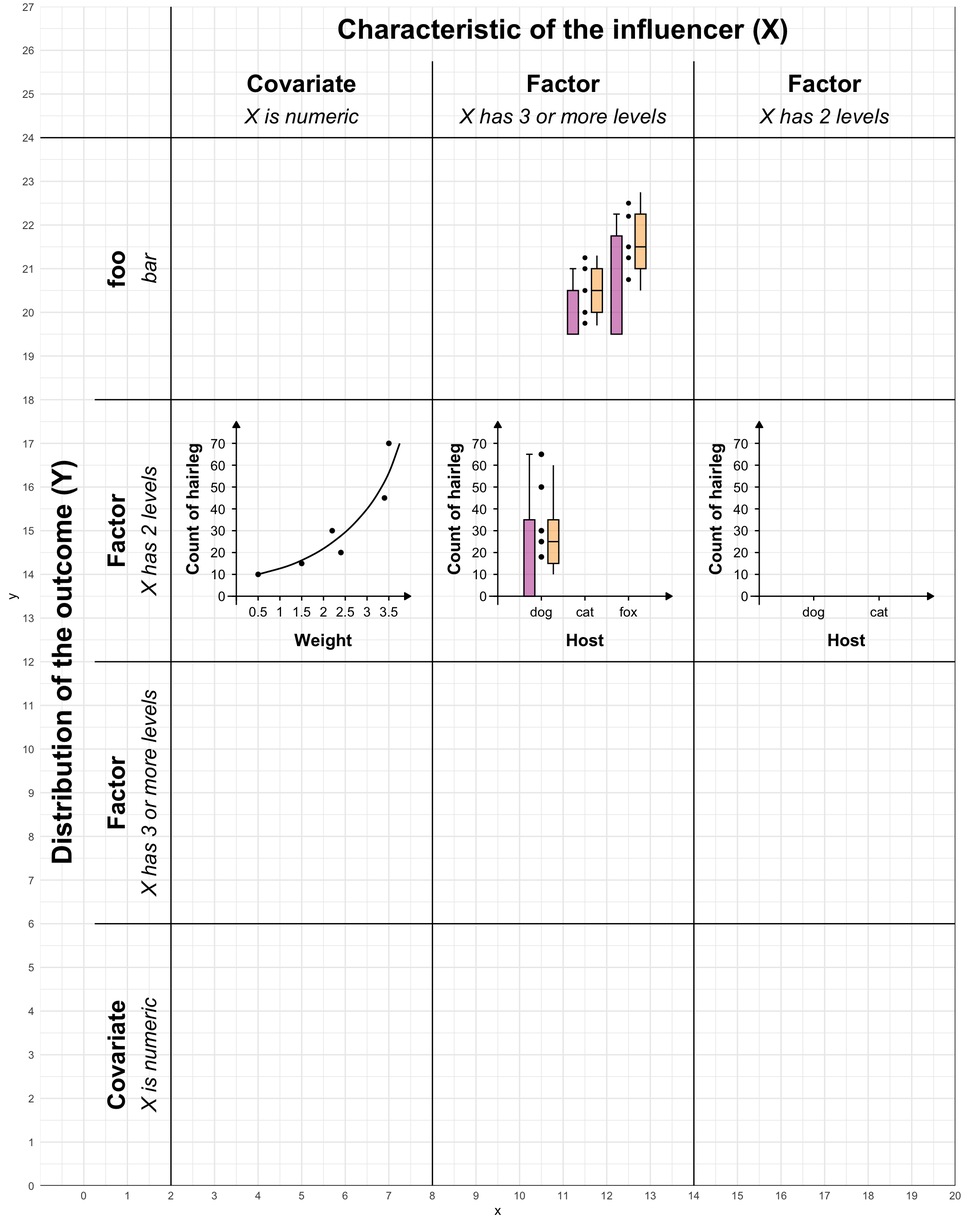
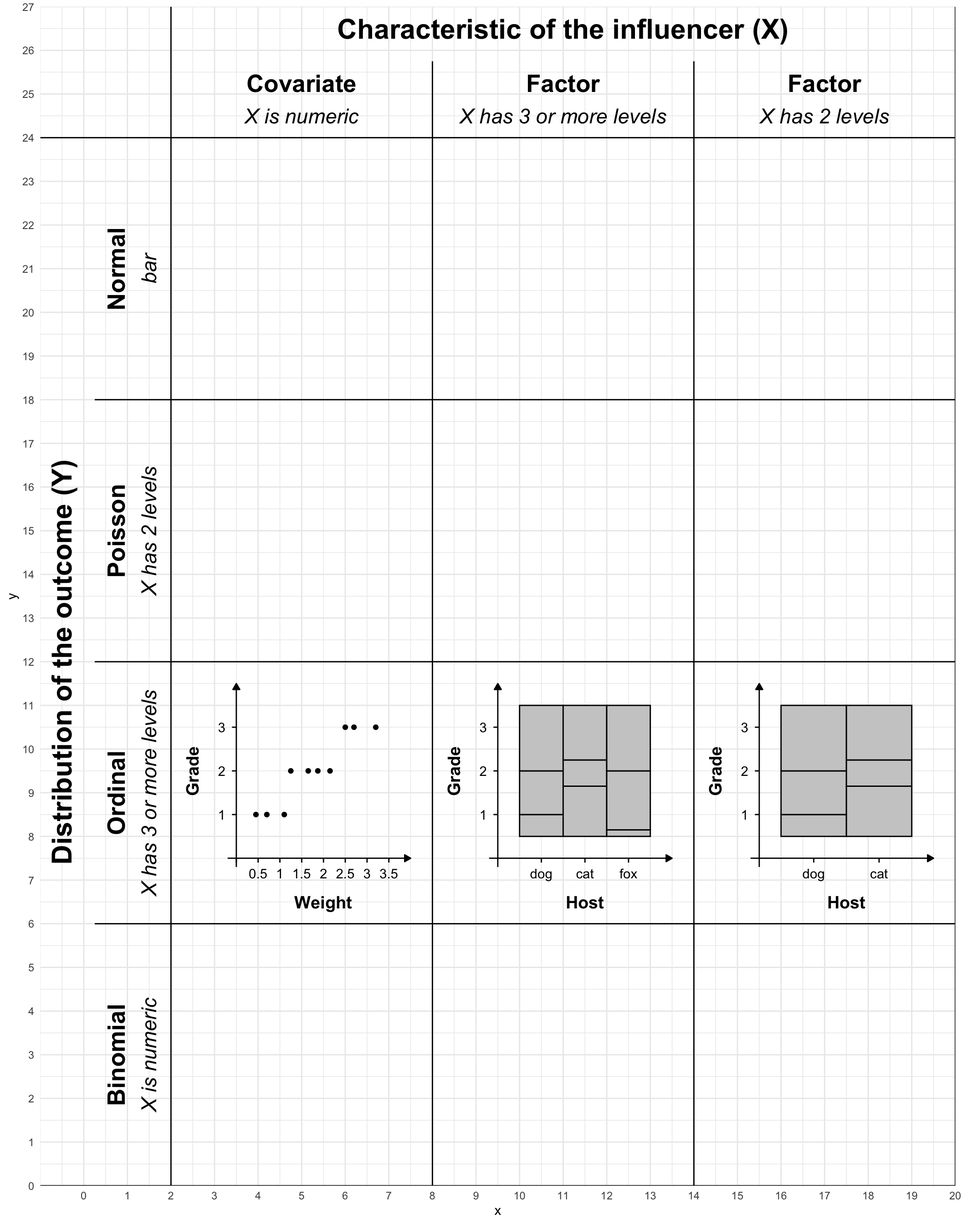
added

diff --git a/docs/chapter-40-preface.html b/docs/chapter-40-preface.html
@@ -361,7 +361,7 @@ pre > code.sourceCode > span > a:first-child::before { text-decoration: underlin
 </header>
 
 
-<p><em>Last modified on 16. December 2025 at 16:24:38</em></p>
+<p><em>Last modified on 16. December 2025 at 19:12:45</em></p>
 <blockquote class="blockquote">
 <p><em>“What problem have you solved, ever, that was worth solving where you knew all the given information in advance? No problem worth solving is like that. In the real world, you have a surplus of information and you have to filter it, or you don’t have sufficient information and you have to go find some.” — <a href="https://www.ted.com/talks/dan_meyer_math_class_needs_a_makeover?language=en&amp;subtitle=en&amp;trigger=5s">Dan Meyer in Math class needs a makeover</a></em></p>
 </blockquote>
@@ -976,7 +976,7 @@ Figure&nbsp;1: foo
 <span id="cb1-88"><a href="#cb1-88" aria-hidden="true" tabindex="-1"></a>  )</span>
 <span id="cb1-89"><a href="#cb1-89" aria-hidden="true" tabindex="-1"></a>}</span>
 <span id="cb1-90"><a href="#cb1-90" aria-hidden="true" tabindex="-1"></a></span>
-<span id="cb1-91"><a href="#cb1-91" aria-hidden="true" tabindex="-1"></a> <span class="fu">ggplot</span>() <span class="sc">+</span></span>
+<span id="cb1-91"><a href="#cb1-91" aria-hidden="true" tabindex="-1"></a><span class="fu">ggplot</span>() <span class="sc">+</span></span>
 <span id="cb1-92"><a href="#cb1-92" aria-hidden="true" tabindex="-1"></a>  <span class="do">##theme_void() +</span></span>
 <span id="cb1-93"><a href="#cb1-93" aria-hidden="true" tabindex="-1"></a>  <span class="fu">theme_minimal</span>() <span class="sc">+</span></span>
 <span id="cb1-94"><a href="#cb1-94" aria-hidden="true" tabindex="-1"></a>  <span class="fu">coord_cartesian</span>(<span class="at">xlim =</span> <span class="fu">c</span>(<span class="sc">-</span><span class="dv">1</span>, <span class="dv">20</span>), <span class="at">ylim =</span> <span class="fu">c</span>(<span class="dv">0</span>, <span class="dv">27</span>)) <span class="sc">+</span></span>
@@ -1000,53 +1000,37 @@ Figure&nbsp;1: foo
 <span id="cb1-112"><a href="#cb1-112" aria-hidden="true" tabindex="-1"></a>  <span class="fu">annotate</span>(<span class="st">"text"</span>, <span class="at">x =</span> <span class="sc">-</span><span class="fl">0.5</span>, <span class="at">y =</span> <span class="dv">12</span>, <span class="at">label =</span> <span class="st">"Distribution of the outcome (Y)"</span>, <span class="at">size =</span> <span class="dv">8</span>, </span>
 <span id="cb1-113"><a href="#cb1-113" aria-hidden="true" tabindex="-1"></a>           <span class="at">fontface =</span> <span class="dv">2</span>, <span class="at">angle =</span> <span class="dv">90</span>) <span class="sc">+</span></span>
 <span id="cb1-114"><a href="#cb1-114" aria-hidden="true" tabindex="-1"></a>  <span class="fu">annotate</span>(<span class="st">"text"</span>, <span class="at">x =</span> <span class="fl">0.75</span>, <span class="at">y =</span> <span class="fu">c</span>(<span class="dv">3</span>, <span class="dv">9</span>, <span class="dv">15</span>, <span class="dv">21</span>), </span>
-<span id="cb1-115"><a href="#cb1-115" aria-hidden="true" tabindex="-1"></a>           <span class="at">label =</span> <span class="fu">c</span>(<span class="st">"Covariate"</span>, <span class="st">"Factor"</span>, <span class="st">"Factor"</span>, <span class="st">"foo"</span>), <span class="at">size =</span> <span class="dv">7</span>, <span class="at">fontface =</span> <span class="dv">2</span>, <span class="at">angle =</span> <span class="dv">90</span>) <span class="sc">+</span></span>
+<span id="cb1-115"><a href="#cb1-115" aria-hidden="true" tabindex="-1"></a>           <span class="at">label =</span> <span class="fu">c</span>(<span class="st">"Binomial"</span>, <span class="st">"Ordinal"</span>, <span class="st">"Poisson"</span>, <span class="st">"Normal"</span>), <span class="at">size =</span> <span class="dv">7</span>, <span class="at">fontface =</span> <span class="dv">2</span>, <span class="at">angle =</span> <span class="dv">90</span>) <span class="sc">+</span></span>
 <span id="cb1-116"><a href="#cb1-116" aria-hidden="true" tabindex="-1"></a>  <span class="fu">annotate</span>(<span class="st">"text"</span>, <span class="at">x =</span> <span class="fl">1.5</span>, <span class="at">y =</span> <span class="fu">c</span>(<span class="dv">3</span>, <span class="dv">9</span>, <span class="dv">15</span>, <span class="dv">21</span>), </span>
 <span id="cb1-117"><a href="#cb1-117" aria-hidden="true" tabindex="-1"></a>           <span class="at">label =</span> <span class="fu">c</span>(<span class="st">"X is numeric"</span>, <span class="st">"X has 3 or more levels"</span>, <span class="st">"X has 2 levels"</span>, <span class="st">"bar"</span>), </span>
 <span id="cb1-118"><a href="#cb1-118" aria-hidden="true" tabindex="-1"></a>           <span class="at">size =</span> <span class="dv">6</span>, <span class="at">fontface =</span> <span class="dv">3</span>, <span class="at">angle =</span> <span class="dv">90</span>) <span class="sc">+</span></span>
 <span id="cb1-119"><a href="#cb1-119" aria-hidden="true" tabindex="-1"></a>  <span class="do">## coords</span></span>
-<span id="cb1-120"><a href="#cb1-120" aria-hidden="true" tabindex="-1"></a>  <span class="fu">geom_coord_cross</span>(<span class="at">x =</span> <span class="fl">3.5</span>, <span class="at">y =</span> <span class="fl">13.5</span>, <span class="at">yticks =</span> <span class="st">"numeric"</span>, <span class="at">xticks =</span> <span class="st">"numeric"</span>, <span class="at">zero =</span> <span class="cn">TRUE</span>) <span class="sc">+</span></span>
-<span id="cb1-121"><a href="#cb1-121" aria-hidden="true" tabindex="-1"></a>  <span class="fu">geom_coord_cross</span>(<span class="at">x =</span> <span class="fl">9.5</span>, <span class="at">y =</span> <span class="fl">13.5</span>, <span class="at">yticks =</span> <span class="st">"numeric"</span>, <span class="at">xticks =</span> <span class="st">"3lvl"</span>, <span class="at">zero =</span> <span class="cn">TRUE</span>) <span class="sc">+</span></span>
-<span id="cb1-122"><a href="#cb1-122" aria-hidden="true" tabindex="-1"></a>  <span class="fu">geom_coord_cross</span>(<span class="at">x =</span> <span class="fl">15.5</span>, <span class="at">y =</span> <span class="fl">13.5</span>, <span class="at">yticks =</span> <span class="st">"numeric"</span>, <span class="at">xticks =</span> <span class="st">"2lvl"</span>, <span class="at">zero =</span> <span class="cn">TRUE</span>) <span class="sc">+</span>   </span>
-<span id="cb1-123"><a href="#cb1-123" aria-hidden="true" tabindex="-1"></a>  <span class="do">## normal</span></span>
-<span id="cb1-124"><a href="#cb1-124" aria-hidden="true" tabindex="-1"></a>  <span class="do">## pois</span></span>
-<span id="cb1-125"><a href="#cb1-125" aria-hidden="true" tabindex="-1"></a>  <span class="do">### covariate</span></span>
-<span id="cb1-126"><a href="#cb1-126" aria-hidden="true" tabindex="-1"></a>  <span class="fu">annotate</span>(<span class="st">"point"</span>, <span class="at">x =</span> <span class="fu">c</span>(<span class="fl">0.5</span>, <span class="fl">1.5</span>, <span class="fl">2.4</span>, <span class="fl">2.2</span>, <span class="fl">3.4</span>, <span class="fl">3.5</span>) <span class="sc">+</span> <span class="fl">3.5</span>, </span>
-<span id="cb1-127"><a href="#cb1-127" aria-hidden="true" tabindex="-1"></a>           <span class="at">y =</span> <span class="fu">c</span>(<span class="dv">14</span>, <span class="fl">14.25</span>, <span class="fl">14.5</span>, <span class="dv">15</span>, <span class="fl">15.75</span>, <span class="dv">17</span>), <span class="at">size =</span> <span class="fl">1.5</span>) <span class="sc">+</span></span>
-<span id="cb1-128"><a href="#cb1-128" aria-hidden="true" tabindex="-1"></a>  <span class="fu">geom_curve</span>(<span class="fu">aes</span>(<span class="at">x =</span> <span class="dv">4</span>, <span class="at">y =</span> <span class="dv">14</span>, <span class="at">xend =</span> <span class="fl">7.25</span>, <span class="at">yend =</span> <span class="dv">17</span>),</span>
-<span id="cb1-129"><a href="#cb1-129" aria-hidden="true" tabindex="-1"></a>             <span class="at">curvature =</span> <span class="fl">0.3</span>, <span class="at">color =</span> <span class="st">"black"</span>, <span class="at">linewidth =</span> <span class="fl">0.65</span>) <span class="sc">+</span></span>
-<span id="cb1-130"><a href="#cb1-130" aria-hidden="true" tabindex="-1"></a>    <span class="do">### 3lvl</span></span>
-<span id="cb1-131"><a href="#cb1-131" aria-hidden="true" tabindex="-1"></a>  <span class="fu">geom_rect</span>(<span class="fu">aes</span>(<span class="at">xmin =</span> <span class="fl">10.1</span>, <span class="at">xmax =</span> <span class="fl">10.35</span>, <span class="at">ymin =</span> <span class="fl">13.5</span>, <span class="at">ymax =</span> <span class="fl">15.25</span>), <span class="at">fill =</span> <span class="st">"#B12A9080"</span>,</span>
-<span id="cb1-132"><a href="#cb1-132" aria-hidden="true" tabindex="-1"></a>            <span class="at">color =</span> <span class="st">"black"</span>) <span class="sc">+</span></span>
-<span id="cb1-133"><a href="#cb1-133" aria-hidden="true" tabindex="-1"></a>  <span class="fu">geom_segment</span>(<span class="fu">aes</span>(<span class="at">x =</span> <span class="fl">10.225</span>, <span class="at">xend =</span> <span class="fl">10.225</span>, <span class="at">y =</span> <span class="fl">15.25</span>, <span class="at">yend =</span> <span class="fl">16.75</span>)) <span class="sc">+</span></span>
-<span id="cb1-134"><a href="#cb1-134" aria-hidden="true" tabindex="-1"></a>  <span class="fu">geom_segment</span>(<span class="fu">aes</span>(<span class="at">x =</span> <span class="fl">10.15</span>, <span class="at">xend =</span> <span class="fl">10.3</span>, <span class="at">y =</span> <span class="fl">16.75</span>, <span class="at">yend =</span> <span class="fl">16.75</span>)) <span class="sc">+</span>  </span>
-<span id="cb1-135"><a href="#cb1-135" aria-hidden="true" tabindex="-1"></a>  <span class="fu">annotate</span>(<span class="st">"point"</span>, <span class="at">x =</span> <span class="fu">c</span>(<span class="fl">10.5</span>), </span>
-<span id="cb1-136"><a href="#cb1-136" aria-hidden="true" tabindex="-1"></a>           <span class="at">y =</span> <span class="fu">c</span>(<span class="fl">14.75</span>, <span class="dv">15</span>, <span class="fl">14.4</span>, <span class="dv">16</span>, <span class="fl">16.75</span>), <span class="at">size =</span> <span class="fl">1.5</span>) <span class="sc">+</span>  </span>
-<span id="cb1-137"><a href="#cb1-137" aria-hidden="true" tabindex="-1"></a>  <span class="fu">geom_rect</span>(<span class="fu">aes</span>(<span class="at">xmin =</span> <span class="fl">10.65</span>, <span class="at">xmax =</span> <span class="fl">10.9</span>, <span class="at">ymin =</span> <span class="fl">14.25</span>, <span class="at">ymax =</span> <span class="fl">15.25</span>), <span class="at">fill =</span> <span class="st">"#FCA63680"</span>,</span>
-<span id="cb1-138"><a href="#cb1-138" aria-hidden="true" tabindex="-1"></a>            <span class="at">color =</span> <span class="st">"black"</span>) <span class="sc">+</span></span>
-<span id="cb1-139"><a href="#cb1-139" aria-hidden="true" tabindex="-1"></a>  <span class="fu">geom_segment</span>(<span class="fu">aes</span>(<span class="at">x =</span> <span class="fl">10.65</span>, <span class="at">xend =</span> <span class="fl">10.9</span>, <span class="at">y =</span> <span class="fl">14.75</span>, <span class="at">yend =</span> <span class="fl">14.75</span>)) <span class="sc">+</span></span>
-<span id="cb1-140"><a href="#cb1-140" aria-hidden="true" tabindex="-1"></a>  <span class="fu">geom_segment</span>(<span class="fu">aes</span>(<span class="at">x =</span> <span class="fl">10.775</span>, <span class="at">xend =</span> <span class="fl">10.775</span>, <span class="at">y =</span> <span class="fu">c</span>(<span class="dv">14</span>, <span class="fl">15.25</span>), <span class="at">yend =</span> <span class="fu">c</span>(<span class="fl">14.25</span>, <span class="fl">16.5</span>))) <span class="sc">+</span></span>
-<span id="cb1-141"><a href="#cb1-141" aria-hidden="true" tabindex="-1"></a>  <span class="fu">geom_rect</span>(<span class="fu">aes</span>(<span class="at">xmin =</span> <span class="fl">11.1</span>, <span class="at">xmax =</span> <span class="fl">11.35</span>, <span class="at">ymin =</span> <span class="fl">19.5</span>, <span class="at">ymax =</span> <span class="fl">20.5</span>), <span class="at">fill =</span> <span class="st">"#B12A9080"</span>,</span>
-<span id="cb1-142"><a href="#cb1-142" aria-hidden="true" tabindex="-1"></a>            <span class="at">color =</span> <span class="st">"black"</span>) <span class="sc">+</span></span>
-<span id="cb1-143"><a href="#cb1-143" aria-hidden="true" tabindex="-1"></a>  <span class="fu">geom_segment</span>(<span class="fu">aes</span>(<span class="at">x =</span> <span class="fl">11.225</span>, <span class="at">xend =</span> <span class="fl">11.225</span>, <span class="at">y =</span> <span class="fl">20.5</span>, <span class="at">yend =</span> <span class="dv">21</span>)) <span class="sc">+</span></span>
-<span id="cb1-144"><a href="#cb1-144" aria-hidden="true" tabindex="-1"></a>  <span class="fu">geom_segment</span>(<span class="fu">aes</span>(<span class="at">x =</span> <span class="fl">11.15</span>, <span class="at">xend =</span> <span class="fl">11.3</span>, <span class="at">y =</span> <span class="dv">21</span>, <span class="at">yend =</span> <span class="dv">21</span>)) <span class="sc">+</span>  </span>
-<span id="cb1-145"><a href="#cb1-145" aria-hidden="true" tabindex="-1"></a>  <span class="fu">annotate</span>(<span class="st">"point"</span>, <span class="at">x =</span> <span class="fu">c</span>(<span class="fl">11.5</span>), </span>
-<span id="cb1-146"><a href="#cb1-146" aria-hidden="true" tabindex="-1"></a>           <span class="at">y =</span> <span class="fu">c</span>(<span class="fl">19.75</span>, <span class="dv">20</span>, <span class="fl">20.5</span>, <span class="dv">21</span>, <span class="fl">21.25</span>), <span class="at">size =</span> <span class="fl">1.25</span>) <span class="sc">+</span>  </span>
-<span id="cb1-147"><a href="#cb1-147" aria-hidden="true" tabindex="-1"></a>  <span class="fu">geom_rect</span>(<span class="fu">aes</span>(<span class="at">xmin =</span> <span class="fl">11.65</span>, <span class="at">xmax =</span> <span class="fl">11.9</span>, <span class="at">ymin =</span> <span class="dv">20</span>, <span class="at">ymax =</span> <span class="dv">21</span>), <span class="at">fill =</span> <span class="st">"#FCA63680"</span>,</span>
-<span id="cb1-148"><a href="#cb1-148" aria-hidden="true" tabindex="-1"></a>            <span class="at">color =</span> <span class="st">"black"</span>) <span class="sc">+</span></span>
-<span id="cb1-149"><a href="#cb1-149" aria-hidden="true" tabindex="-1"></a>  <span class="fu">geom_segment</span>(<span class="fu">aes</span>(<span class="at">x =</span> <span class="fl">11.65</span>, <span class="at">xend =</span> <span class="fl">11.9</span>, <span class="at">y =</span> <span class="fl">20.5</span>, <span class="at">yend =</span> <span class="fl">20.5</span>)) <span class="sc">+</span></span>
-<span id="cb1-150"><a href="#cb1-150" aria-hidden="true" tabindex="-1"></a>  <span class="fu">geom_segment</span>(<span class="fu">aes</span>(<span class="at">x =</span> <span class="fl">11.775</span>, <span class="at">xend =</span> <span class="fl">11.775</span>, <span class="at">y =</span> <span class="fu">c</span>(<span class="fl">19.7</span>, <span class="dv">21</span>), <span class="at">yend =</span> <span class="fu">c</span>(<span class="dv">20</span>, <span class="fl">21.3</span>))) <span class="sc">+</span></span>
-<span id="cb1-151"><a href="#cb1-151" aria-hidden="true" tabindex="-1"></a>  <span class="fu">geom_rect</span>(<span class="fu">aes</span>(<span class="at">xmin =</span> <span class="fl">12.1</span>, <span class="at">xmax =</span> <span class="fl">12.35</span>, <span class="at">ymin =</span> <span class="fl">19.5</span>, <span class="at">ymax =</span> <span class="fl">21.75</span>), <span class="at">fill =</span> <span class="st">"#B12A9080"</span>,</span>
-<span id="cb1-152"><a href="#cb1-152" aria-hidden="true" tabindex="-1"></a>            <span class="at">color =</span> <span class="st">"black"</span>) <span class="sc">+</span></span>
-<span id="cb1-153"><a href="#cb1-153" aria-hidden="true" tabindex="-1"></a>  <span class="fu">geom_segment</span>(<span class="fu">aes</span>(<span class="at">x =</span> <span class="fl">12.225</span>, <span class="at">xend =</span> <span class="fl">12.225</span>, <span class="at">y =</span> <span class="fl">21.75</span>, <span class="at">yend =</span> <span class="fl">22.25</span>)) <span class="sc">+</span></span>
-<span id="cb1-154"><a href="#cb1-154" aria-hidden="true" tabindex="-1"></a>  <span class="fu">geom_segment</span>(<span class="fu">aes</span>(<span class="at">x =</span> <span class="fl">12.15</span>, <span class="at">xend =</span> <span class="fl">12.3</span>, <span class="at">y =</span> <span class="fl">22.25</span>, <span class="at">yend =</span> <span class="fl">22.25</span>)) <span class="sc">+</span>    </span>
-<span id="cb1-155"><a href="#cb1-155" aria-hidden="true" tabindex="-1"></a>  <span class="fu">annotate</span>(<span class="st">"point"</span>, <span class="at">x =</span> <span class="fu">c</span>(<span class="fl">12.5</span>), </span>
-<span id="cb1-156"><a href="#cb1-156" aria-hidden="true" tabindex="-1"></a>           <span class="at">y =</span> <span class="fu">c</span>(<span class="fl">20.75</span>, <span class="fl">21.25</span>, <span class="fl">21.5</span>, <span class="fl">22.2</span>, <span class="fl">22.5</span>), <span class="at">size =</span> <span class="fl">1.25</span>) <span class="sc">+</span></span>
-<span id="cb1-157"><a href="#cb1-157" aria-hidden="true" tabindex="-1"></a>  <span class="fu">geom_rect</span>(<span class="fu">aes</span>(<span class="at">xmin =</span> <span class="fl">12.65</span>, <span class="at">xmax =</span> <span class="fl">12.9</span>, <span class="at">ymin =</span> <span class="dv">21</span>, <span class="at">ymax =</span> <span class="fl">22.25</span>), <span class="at">fill =</span> <span class="st">"#FCA63680"</span>,</span>
-<span id="cb1-158"><a href="#cb1-158" aria-hidden="true" tabindex="-1"></a>            <span class="at">color =</span> <span class="st">"black"</span>) <span class="sc">+</span></span>
-<span id="cb1-159"><a href="#cb1-159" aria-hidden="true" tabindex="-1"></a>  <span class="fu">geom_segment</span>(<span class="fu">aes</span>(<span class="at">x =</span> <span class="fl">12.65</span>, <span class="at">xend =</span> <span class="fl">12.9</span>, <span class="at">y =</span> <span class="fl">21.5</span>, <span class="at">yend =</span> <span class="fl">21.5</span>)) <span class="sc">+</span></span>
-<span id="cb1-160"><a href="#cb1-160" aria-hidden="true" tabindex="-1"></a>  <span class="fu">geom_segment</span>(<span class="fu">aes</span>(<span class="at">x =</span> <span class="fl">12.775</span>, <span class="at">xend =</span> <span class="fl">12.775</span>, <span class="at">y =</span> <span class="fu">c</span>(<span class="fl">20.5</span>, <span class="fl">22.25</span>), <span class="at">yend =</span> <span class="fu">c</span>(<span class="dv">21</span>, <span class="fl">22.75</span>)))  </span>
-<span id="cb1-161"><a href="#cb1-161" aria-hidden="true" tabindex="-1"></a><span class="in">```</span></span>
+<span id="cb1-120"><a href="#cb1-120" aria-hidden="true" tabindex="-1"></a>  <span class="fu">geom_coord_cross</span>(<span class="at">x =</span> <span class="fl">3.5</span>, <span class="at">y =</span> <span class="fl">7.5</span>, <span class="at">yticks =</span> <span class="st">"3lvl"</span>, <span class="at">xticks =</span> <span class="st">"numeric"</span>) <span class="sc">+</span></span>
+<span id="cb1-121"><a href="#cb1-121" aria-hidden="true" tabindex="-1"></a>  <span class="fu">geom_coord_cross</span>(<span class="at">x =</span> <span class="fl">9.5</span>, <span class="at">y =</span> <span class="fl">7.5</span>, <span class="at">yticks =</span> <span class="st">"3lvl"</span>, <span class="at">xticks =</span> <span class="st">"3lvl"</span>) <span class="sc">+</span></span>
+<span id="cb1-122"><a href="#cb1-122" aria-hidden="true" tabindex="-1"></a>  <span class="fu">geom_coord_cross</span>(<span class="at">x =</span> <span class="fl">15.5</span>, <span class="at">y =</span> <span class="fl">7.5</span>, <span class="at">yticks =</span> <span class="st">"3lvl"</span>, <span class="at">xticks =</span> <span class="st">"2lvl"</span>) <span class="sc">+</span>  </span>
+<span id="cb1-123"><a href="#cb1-123" aria-hidden="true" tabindex="-1"></a><span class="do">## normal</span></span>
+<span id="cb1-124"><a href="#cb1-124" aria-hidden="true" tabindex="-1"></a><span class="do">## pois</span></span>
+<span id="cb1-125"><a href="#cb1-125" aria-hidden="true" tabindex="-1"></a><span class="do">## ordinal</span></span>
+<span id="cb1-126"><a href="#cb1-126" aria-hidden="true" tabindex="-1"></a>  <span class="fu">annotate</span>(<span class="st">"point"</span>, <span class="at">x =</span> <span class="fu">c</span>(<span class="fl">0.45</span>, <span class="fl">0.7</span>, <span class="fl">1.1</span>, <span class="fl">1.25</span>, <span class="fl">1.65</span>, <span class="fl">1.87</span>, <span class="fl">2.15</span>, <span class="fl">2.5</span>, <span class="fl">2.7</span>, <span class="fl">3.2</span>) <span class="sc">+</span> <span class="fl">3.5</span>, </span>
+<span id="cb1-127"><a href="#cb1-127" aria-hidden="true" tabindex="-1"></a>           <span class="at">y =</span> <span class="fu">c</span>(<span class="fl">8.5</span>, <span class="fl">8.5</span>, <span class="fl">8.5</span>, <span class="fl">9.5</span>, <span class="fl">9.5</span>, <span class="fl">9.5</span>, <span class="fl">9.5</span>, <span class="fl">10.5</span>, <span class="fl">10.5</span>, <span class="fl">10.5</span>), <span class="at">size =</span> <span class="fl">1.5</span>) <span class="sc">+</span></span>
+<span id="cb1-128"><a href="#cb1-128" aria-hidden="true" tabindex="-1"></a>  <span class="do">### 3lvl </span></span>
+<span id="cb1-129"><a href="#cb1-129" aria-hidden="true" tabindex="-1"></a>  <span class="fu">annotate</span>(<span class="st">"rect"</span>, <span class="at">xmin =</span> <span class="dv">10</span>, <span class="at">xmax =</span> <span class="dv">11</span>, <span class="at">ymin =</span> <span class="dv">8</span>, <span class="at">ymax =</span> <span class="fl">8.5</span>, <span class="at">fill =</span> <span class="st">"gray80"</span>, <span class="at">color =</span> <span class="st">"black"</span>) <span class="sc">+</span></span>
+<span id="cb1-130"><a href="#cb1-130" aria-hidden="true" tabindex="-1"></a>  <span class="fu">annotate</span>(<span class="st">"rect"</span>, <span class="at">xmin =</span> <span class="dv">10</span>, <span class="at">xmax =</span> <span class="dv">11</span>, <span class="at">ymin =</span> <span class="fl">8.5</span>, <span class="at">ymax =</span> <span class="fl">9.5</span>, <span class="at">fill =</span> <span class="st">"gray80"</span>, <span class="at">color =</span> <span class="st">"black"</span>) <span class="sc">+</span></span>
+<span id="cb1-131"><a href="#cb1-131" aria-hidden="true" tabindex="-1"></a>  <span class="fu">annotate</span>(<span class="st">"rect"</span>, <span class="at">xmin =</span> <span class="dv">10</span>, <span class="at">xmax =</span> <span class="dv">11</span>, <span class="at">ymin =</span> <span class="fl">9.5</span>, <span class="at">ymax =</span> <span class="dv">11</span>, <span class="at">fill =</span> <span class="st">"gray80"</span>, <span class="at">color =</span> <span class="st">"black"</span>) <span class="sc">+</span></span>
+<span id="cb1-132"><a href="#cb1-132" aria-hidden="true" tabindex="-1"></a>  <span class="fu">annotate</span>(<span class="st">"rect"</span>, <span class="at">xmin =</span> <span class="dv">11</span>, <span class="at">xmax =</span> <span class="dv">12</span>, <span class="at">ymin =</span> <span class="dv">8</span>, <span class="at">ymax =</span> <span class="fl">9.15</span>, <span class="at">fill =</span> <span class="st">"gray80"</span>, <span class="at">color =</span> <span class="st">"black"</span>) <span class="sc">+</span></span>
+<span id="cb1-133"><a href="#cb1-133" aria-hidden="true" tabindex="-1"></a>  <span class="fu">annotate</span>(<span class="st">"rect"</span>, <span class="at">xmin =</span> <span class="dv">11</span>, <span class="at">xmax =</span> <span class="dv">12</span>, <span class="at">ymin =</span> <span class="fl">9.15</span>, <span class="at">ymax =</span> <span class="fl">9.75</span>, <span class="at">fill =</span> <span class="st">"gray80"</span>, <span class="at">color =</span> <span class="st">"black"</span>) <span class="sc">+</span></span>
+<span id="cb1-134"><a href="#cb1-134" aria-hidden="true" tabindex="-1"></a>  <span class="fu">annotate</span>(<span class="st">"rect"</span>, <span class="at">xmin =</span> <span class="dv">11</span>, <span class="at">xmax =</span> <span class="dv">12</span>, <span class="at">ymin =</span> <span class="fl">9.75</span>, <span class="at">ymax =</span> <span class="dv">11</span>, <span class="at">fill =</span> <span class="st">"gray80"</span>, <span class="at">color =</span> <span class="st">"black"</span>) <span class="sc">+</span></span>
+<span id="cb1-135"><a href="#cb1-135" aria-hidden="true" tabindex="-1"></a>  <span class="fu">annotate</span>(<span class="st">"rect"</span>, <span class="at">xmin =</span> <span class="dv">12</span>, <span class="at">xmax =</span> <span class="dv">13</span>, <span class="at">ymin =</span> <span class="dv">8</span>, <span class="at">ymax =</span> <span class="fl">8.15</span>, <span class="at">fill =</span> <span class="st">"gray80"</span>, <span class="at">color =</span> <span class="st">"black"</span>) <span class="sc">+</span></span>
+<span id="cb1-136"><a href="#cb1-136" aria-hidden="true" tabindex="-1"></a>  <span class="fu">annotate</span>(<span class="st">"rect"</span>, <span class="at">xmin =</span> <span class="dv">12</span>, <span class="at">xmax =</span> <span class="dv">13</span>, <span class="at">ymin =</span> <span class="fl">8.15</span>, <span class="at">ymax =</span> <span class="fl">9.5</span>, <span class="at">fill =</span> <span class="st">"gray80"</span>, <span class="at">color =</span> <span class="st">"black"</span>) <span class="sc">+</span></span>
+<span id="cb1-137"><a href="#cb1-137" aria-hidden="true" tabindex="-1"></a>  <span class="fu">annotate</span>(<span class="st">"rect"</span>, <span class="at">xmin =</span> <span class="dv">12</span>, <span class="at">xmax =</span> <span class="dv">13</span>, <span class="at">ymin =</span> <span class="fl">9.5</span>, <span class="at">ymax =</span> <span class="dv">11</span>, <span class="at">fill =</span> <span class="st">"gray80"</span>, <span class="at">color =</span> <span class="st">"black"</span>) <span class="sc">+</span></span>
+<span id="cb1-138"><a href="#cb1-138" aria-hidden="true" tabindex="-1"></a>  <span class="do">### 2lvl</span></span>
+<span id="cb1-139"><a href="#cb1-139" aria-hidden="true" tabindex="-1"></a>  <span class="fu">annotate</span>(<span class="st">"rect"</span>, <span class="at">xmin =</span> <span class="dv">16</span>, <span class="at">xmax =</span> <span class="fl">17.5</span>, <span class="at">ymin =</span> <span class="dv">8</span>, <span class="at">ymax =</span> <span class="fl">8.5</span>, <span class="at">fill =</span> <span class="st">"gray80"</span>, <span class="at">color =</span> <span class="st">"black"</span>) <span class="sc">+</span></span>
+<span id="cb1-140"><a href="#cb1-140" aria-hidden="true" tabindex="-1"></a>  <span class="fu">annotate</span>(<span class="st">"rect"</span>, <span class="at">xmin =</span> <span class="dv">16</span>, <span class="at">xmax =</span> <span class="fl">17.5</span>, <span class="at">ymin =</span> <span class="fl">8.5</span>, <span class="at">ymax =</span> <span class="fl">9.5</span>, <span class="at">fill =</span> <span class="st">"gray80"</span>, <span class="at">color =</span> <span class="st">"black"</span>) <span class="sc">+</span></span>
+<span id="cb1-141"><a href="#cb1-141" aria-hidden="true" tabindex="-1"></a>  <span class="fu">annotate</span>(<span class="st">"rect"</span>, <span class="at">xmin =</span> <span class="dv">16</span>, <span class="at">xmax =</span> <span class="fl">17.5</span>, <span class="at">ymin =</span> <span class="fl">9.5</span>, <span class="at">ymax =</span> <span class="dv">11</span>, <span class="at">fill =</span> <span class="st">"gray80"</span>, <span class="at">color =</span> <span class="st">"black"</span>) <span class="sc">+</span></span>
+<span id="cb1-142"><a href="#cb1-142" aria-hidden="true" tabindex="-1"></a>  <span class="fu">annotate</span>(<span class="st">"rect"</span>, <span class="at">xmin =</span> <span class="fl">17.5</span>, <span class="at">xmax =</span> <span class="dv">19</span>, <span class="at">ymin =</span> <span class="dv">8</span>, <span class="at">ymax =</span> <span class="fl">9.15</span>, <span class="at">fill =</span> <span class="st">"gray80"</span>, <span class="at">color =</span> <span class="st">"black"</span>) <span class="sc">+</span></span>
+<span id="cb1-143"><a href="#cb1-143" aria-hidden="true" tabindex="-1"></a>  <span class="fu">annotate</span>(<span class="st">"rect"</span>, <span class="at">xmin =</span> <span class="fl">17.5</span>, <span class="at">xmax =</span> <span class="dv">19</span>, <span class="at">ymin =</span> <span class="fl">9.15</span>, <span class="at">ymax =</span> <span class="fl">9.75</span>, <span class="at">fill =</span> <span class="st">"gray80"</span>, <span class="at">color =</span> <span class="st">"black"</span>) <span class="sc">+</span></span>
+<span id="cb1-144"><a href="#cb1-144" aria-hidden="true" tabindex="-1"></a>  <span class="fu">annotate</span>(<span class="st">"rect"</span>, <span class="at">xmin =</span> <span class="fl">17.5</span>, <span class="at">xmax =</span> <span class="dv">19</span>, <span class="at">ymin =</span> <span class="fl">9.75</span>, <span class="at">ymax =</span> <span class="dv">11</span>, <span class="at">fill =</span> <span class="st">"gray80"</span>, <span class="at">color =</span> <span class="st">"black"</span>)</span>
+<span id="cb1-145"><a href="#cb1-145" aria-hidden="true" tabindex="-1"></a><span class="in">```</span></span>
 </code></pre></div><button title="Copy to Clipboard" class="code-copy-button" data-in-quarto-modal=""><i class="bi"></i></button></div>
 </div></div></div></div></div>
 </div> <!-- /content -->
